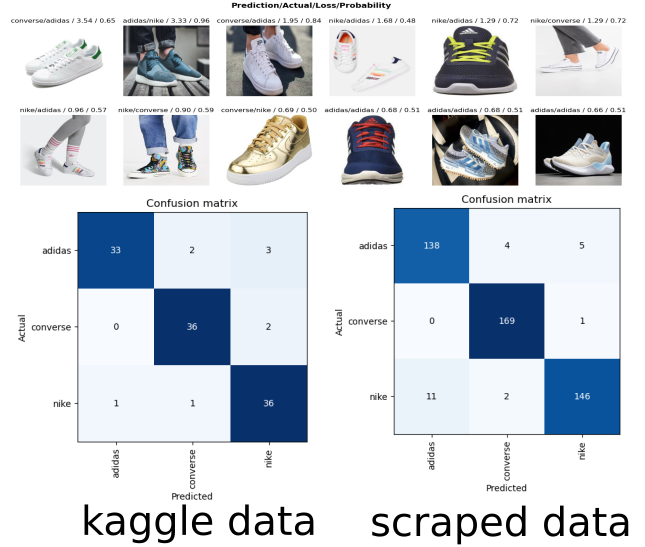
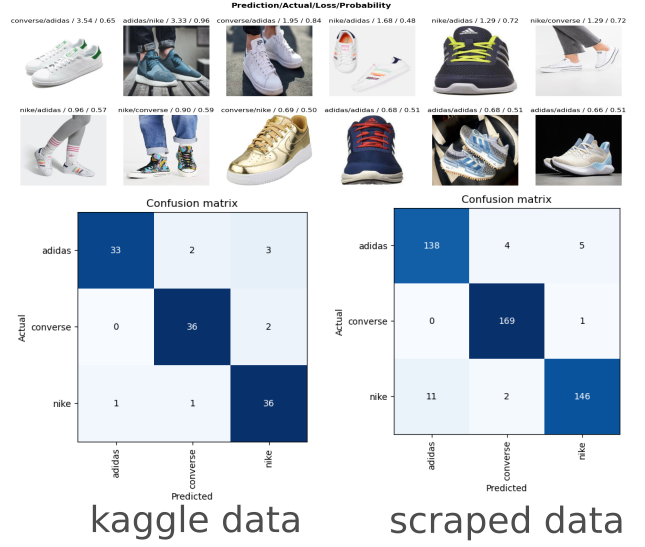
fix image

Changed region(s): [[0.5581, 0.9013, 0.9922, 0.9945], [0.124, 0.9013, 0.4961, 0.9945]]

diff --git a/README.md b/README.md
@@ -39,7 +39,9 @@ Since I ran all the experiments with this train/valid split provided by the kagg
 For that, I collected (web scraping) new photos that I used as a test split after finishing the experiments.
 I was surprised with the model's ability to generalize to unseen data, as we could see on the test-split results.
 
-![png](images/conf.png)
+<p align="center">
+  <img src="images/conf.png">
+</p>
 
 
 ## A few other takeaways/learnings
